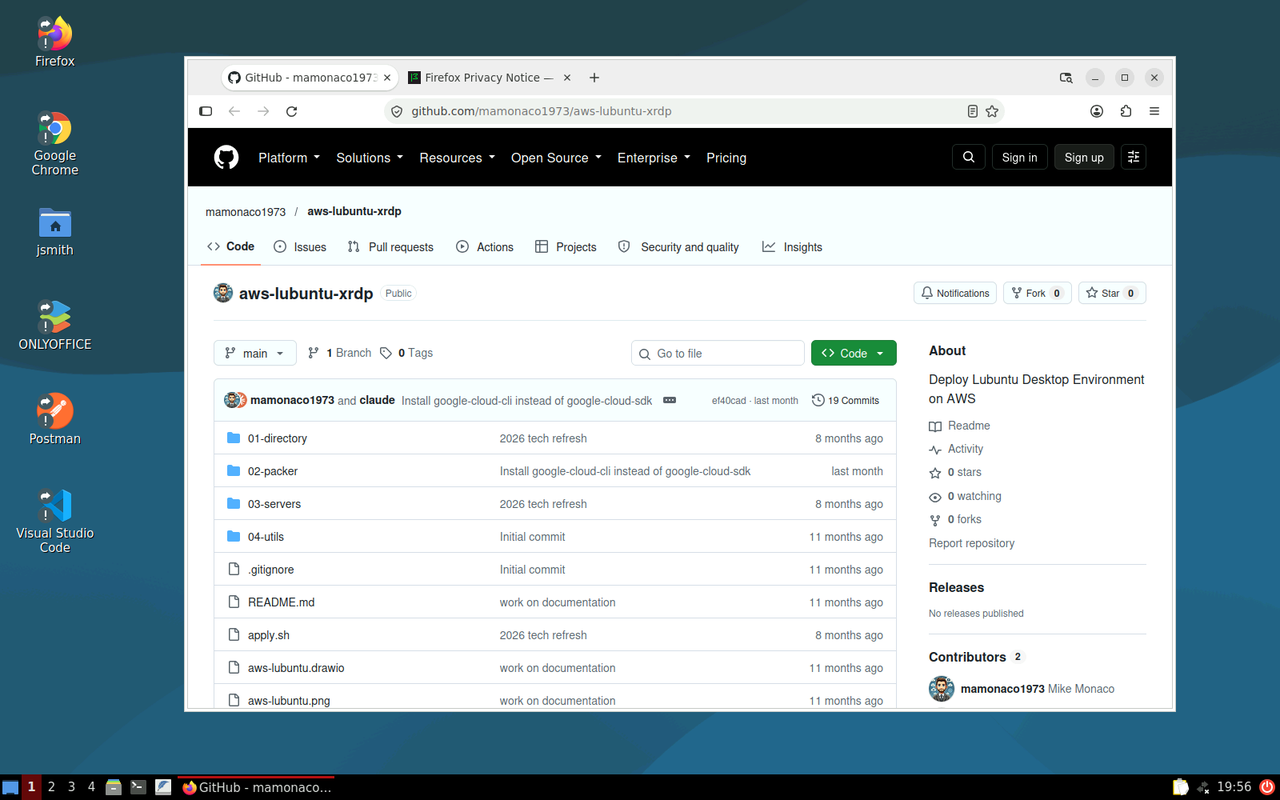
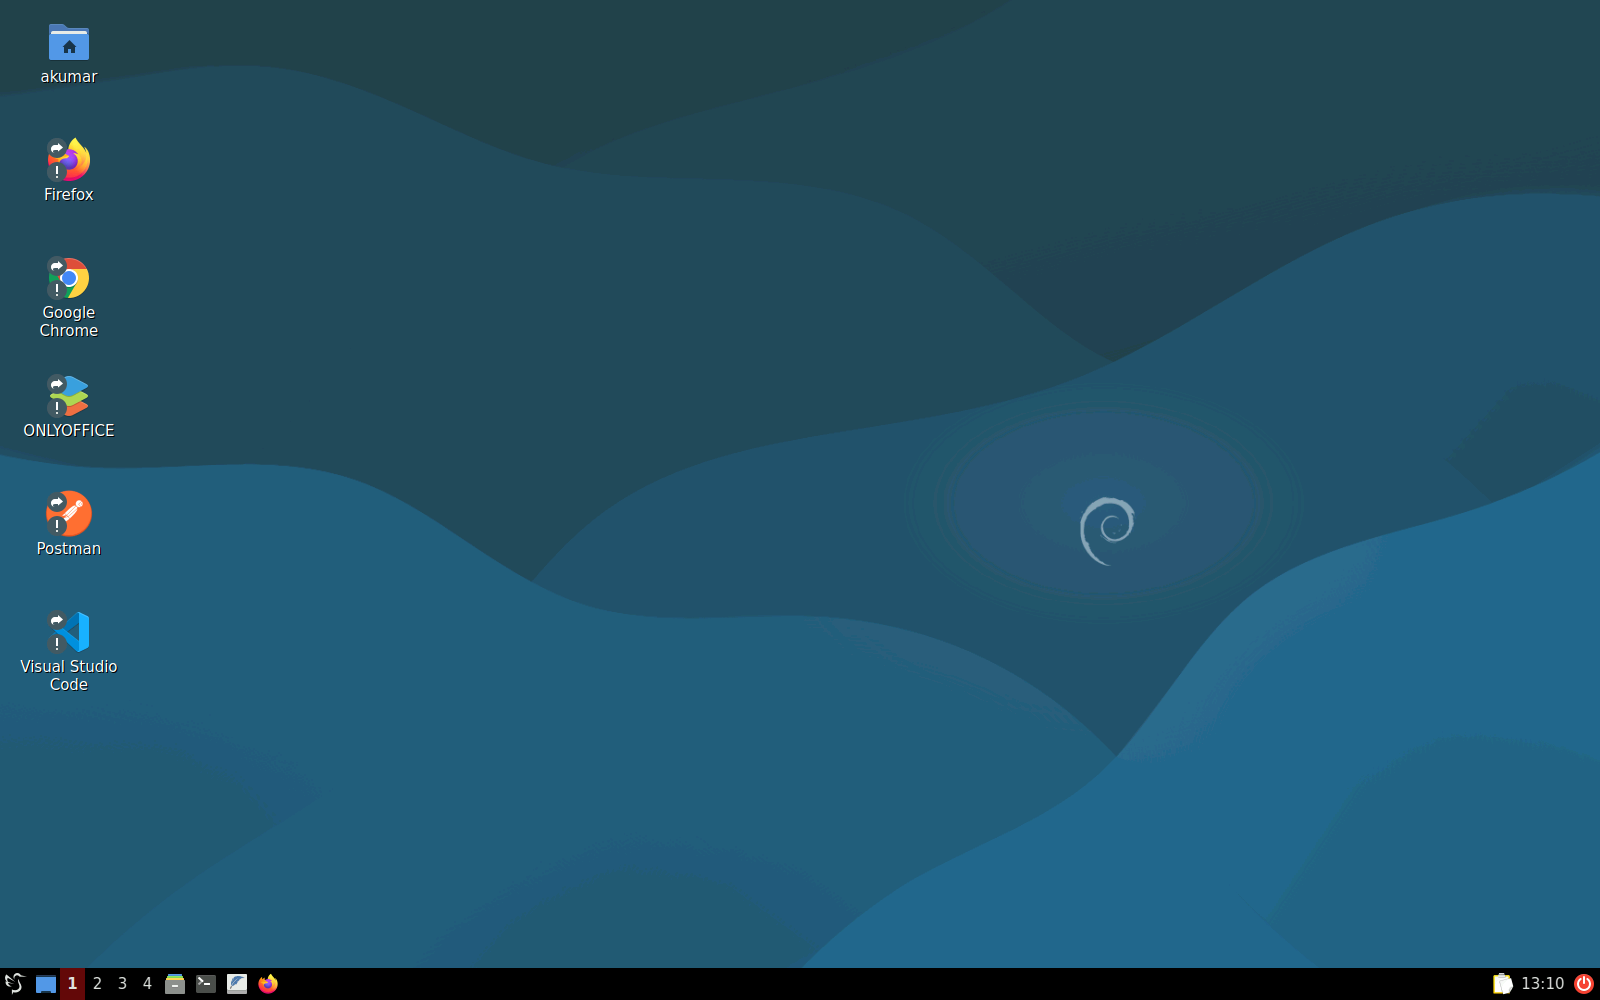
Fix LXQt desktop on 26.04 and drop leftover hacks
Bring over the LXQt 2.3 fixes from azure-guacamole:
- fancymenu + lxqt-menu-data + dark theme, so the panel has a menu
- xdg-utils + qtxdg-tools and XDG_CURRENT_DESKTOP=LXQt, so links and
  files open in their default app
- /etc/xdg/mimeapps.list and BROWSER=firefox-snap for Firefox
- purge gvfs, printing, Bluetooth, ModemManager and power management;
  no display manager, boot to multi-user.target

Drop what is no longer needed: the lxqt metapackage, lightdm, the
duplicate skel session.conf, Archiver=xarchiver, and the pam_exec
mkhomedir helper (pam_mkhomedir in common-session creates homes 0700).

diff --git a/README.md b/README.md
@@ -49,6 +49,14 @@ Regenerate with `python3 make_diagram.py`.
   with "Authorization required".
 - **No polkit prompts in RDP sessions.** A polkit rule allows colour-profile
   and package-refresh actions that otherwise ask for a password at login.
+- **LXQt 2.3 fixes for 26.04.** The panel uses the `fancymenu` plugin
+  (`mainmenu` no longer loads) with `lxqt-menu-data`, and the `dark` theme,
+  because the `debian` theme draws the menu button blank. `xdg-utils` and
+  `qtxdg-tools` with `XDG_CURRENT_DESKTOP=LXQt` let apps open links and
+  files, and `/etc/xdg/mimeapps.list` makes Firefox the default browser.
+- **Nothing a cloud desktop doesn't use.** gvfs (which hangs PCManFM-Qt in
+  remote sessions), printing, Bluetooth, ModemManager and power management
+  are removed, and no display manager runs on the console.
 - **New users get the desktop icons and defaults** from `/etc/skel`.
 
 ## How sign-in works
